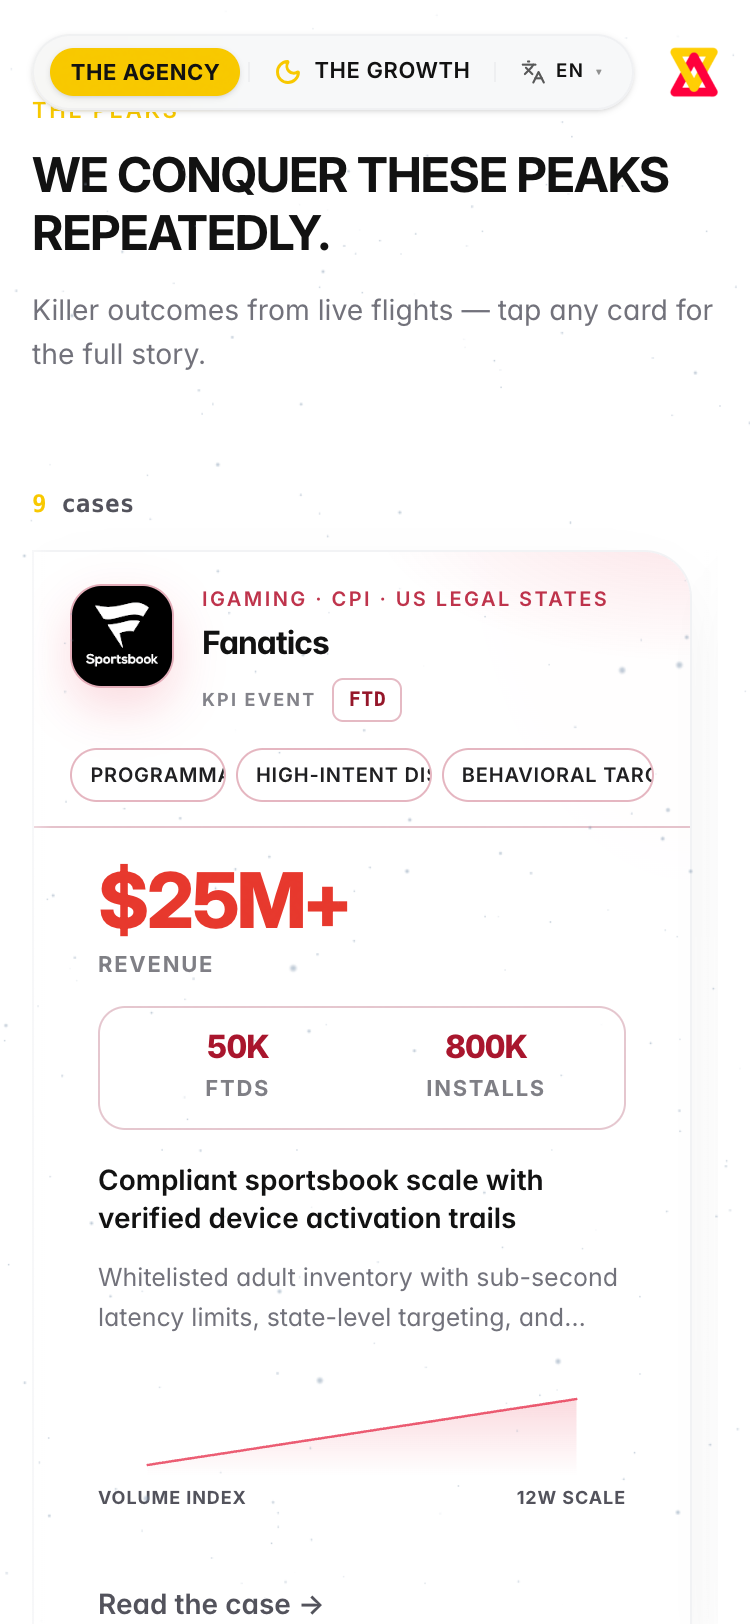
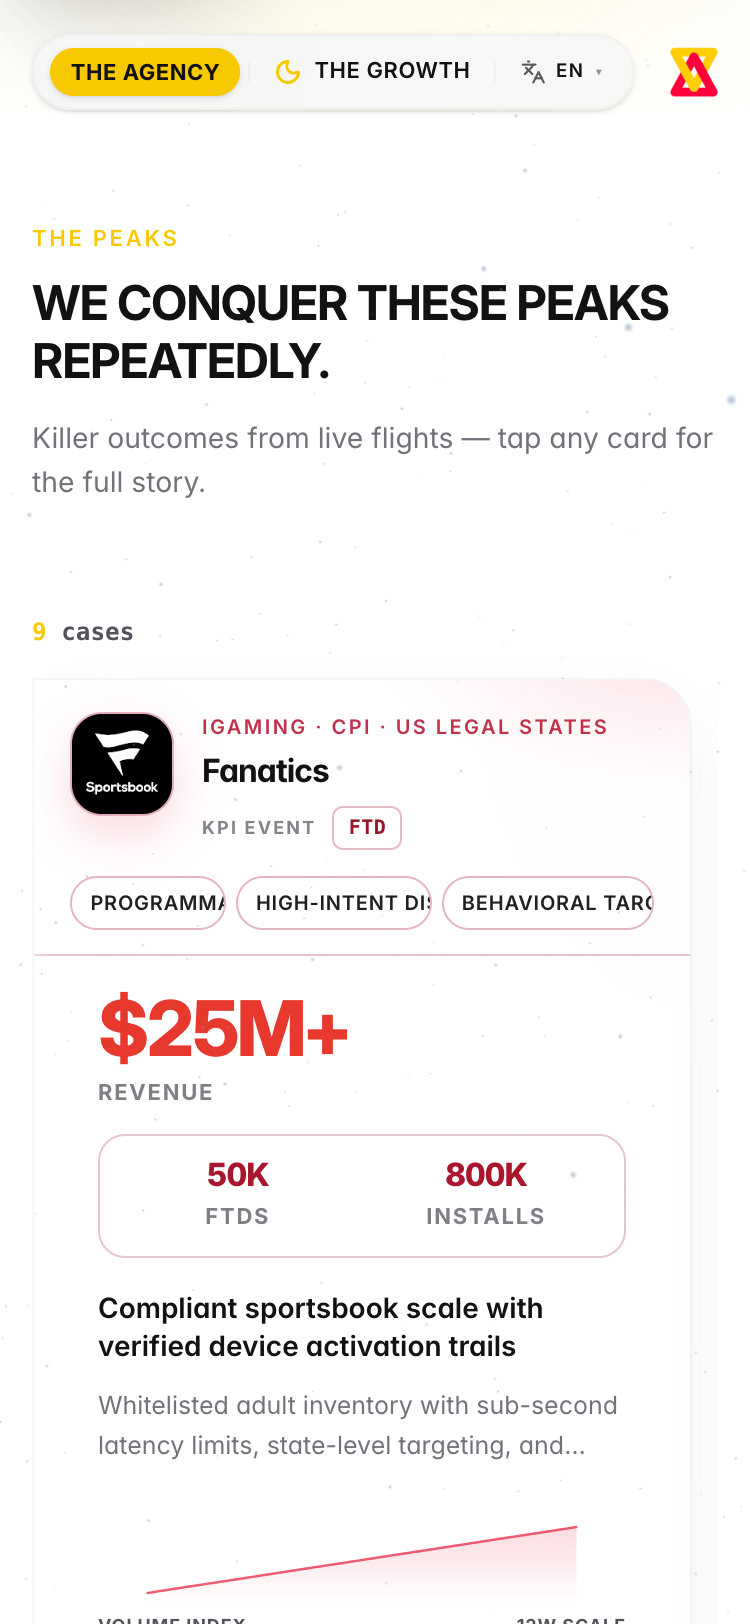
fix(charts): enable animations on mobile for light theme charts, move scroll refs to sections to extend animation runway, fix fraud chart ghost coordinates and text alignment for mobile

diff --git a/src/components/FraudScrollChart.tsx b/src/components/FraudScrollChart.tsx
@@ -22,10 +22,10 @@ const segments = [
 const radii = [168, 138, 108, 78];
 
 const fraudGhostLayout = [
-  { left: "48%", originY: 79, drift: 16, duration: 7.2, delay: 0 },
-  { left: "63%", originY: 85, drift: -12, duration: 7.8, delay: 1.1 },
-  { left: "78%", originY: 75, drift: 14, duration: 8.1, delay: 2.0 },
-  { left: "92%", originY: 81, drift: -10, duration: 6.6, delay: 2.8 },
+  { left: "48%", mobileLeft: "30%", originY: 79, drift: 16, duration: 7.2, delay: 0 },
+  { left: "63%", mobileLeft: "48%", originY: 85, drift: -12, duration: 7.8, delay: 1.1 },
+  { left: "78%", mobileLeft: "66%", originY: 75, drift: 14, duration: 8.1, delay: 2.0 },
+  { left: "92%", mobileLeft: "84%", originY: 81, drift: -10, duration: 6.6, delay: 2.8 },
 ] as const;
 
 function polar(cx: number, cy: number, r: number, angleDeg: number) {
@@ -55,6 +55,17 @@ function FraudGhost({
   const layout = fraudGhostLayout[index]!;
   const containerRef = useRef<HTMLSpanElement>(null);
 
+  const [isMobile, setIsMobile] = useState(false);
+  useEffect(() => {
+    const mq = window.matchMedia("(max-width: 767px)");
+    setIsMobile(mq.matches);
+    const handler = (e: MediaQueryListEvent) => setIsMobile(e.matches);
+    mq.addEventListener("change", handler);
+    return () => mq.removeEventListener("change", handler);
+  }, []);
+
+  const finalLeft = isMobile ? layout.mobileLeft : layout.left;
+
   // Zero-cost text update matching ModeChart
   useEffect(() => {
     const updateDOM = (v: number) => {
@@ -79,7 +90,7 @@ function FraudGhost({
 
   return (
     <GhostBubbleMotion
-      left={layout.left}
+      left={finalLeft}
       originY={layout.originY}
       drift={layout.drift}
       duration={layout.duration}
@@ -137,7 +148,7 @@ export function FraudScrollChart({ progress }: { progress: MotionValue<number> }
 
   useEffect(() => {
     const mq = window.matchMedia("(min-width: 768px)");
-    const sync = () => setEnabled(mq.matches && !reduced);
+    const sync = () => setEnabled(!reduced);
     sync();
     mq.addEventListener("change", sync);
     return () => mq.removeEventListener("change", sync);
@@ -167,7 +178,7 @@ export function FraudScrollChart({ progress }: { progress: MotionValue<number> }
       
       {/* Live Date Anchor */}
       <motion.div 
-        className="absolute top-10 right-[42%] flex flex-col items-end gap-1.5 text-right z-10"
+        className="absolute top-10 right-[10%] md:right-[42%] flex flex-col items-end gap-1.5 text-right z-10"
         style={{ opacity: dateOpacity }}
       >
         <span className="font-sans font-medium text-[0.65rem] tracking-widest text-accent-secondary uppercase flex items-center gap-2">

diff --git a/src/components/PromiseSection.tsx b/src/components/PromiseSection.tsx
@@ -25,7 +25,7 @@ function PromiseClean() {
   });
 
   return (
-    <section id="promise" className="section-band section-band--quiet">
+    <section ref={ref} id="promise" className="section-band section-band--quiet min-h-screen">
       <ModeContentTransition mode={mode} className="section-inner">
         <SectionHeader label={content.label} title={content.title} animated={false} />
         <div className="section-stack flex max-w-3xl flex-col gap-5">
@@ -36,7 +36,7 @@ function PromiseClean() {
           <p className="section-description max-w-2xl mt-4 mb-6">{formatEventNames(content.description)}</p>
         </div>
         
-        <div ref={ref} className="relative w-full aspect-[4/3] sm:aspect-[21/9] mt-8 pointer-events-none flex items-center justify-center">
+        <div className="relative w-full aspect-[4/3] sm:aspect-[21/9] mt-8 pointer-events-none flex items-center justify-center">
            {isParityDark ? <ParityWaterChart progress={scrollYProgress} /> : <CommitmentChart progress={scrollYProgress} />}
         </div>
       </ModeContentTransition>

diff --git a/src/components/Audience.tsx b/src/components/Audience.tsx
@@ -25,7 +25,7 @@ function AudienceStatic() {
   });
 
   return (
-    <section id="audience" className="section-band section-band--quiet">
+    <section ref={ref} id="audience" className="section-band section-band--quiet min-h-screen">
       <ModeContentTransition mode={mode} className="section-inner">
         <SectionHeader label={content.label} title={content.title} animated={false} />
         <div className="section-stack flex max-w-3xl flex-col gap-5">
@@ -36,7 +36,7 @@ function AudienceStatic() {
           <p className="section-description max-w-2xl whitespace-pre-wrap">{formatEventNames(content.description)}</p>
         </div>
 
-        <div ref={ref} className="relative w-full aspect-[4/3] sm:aspect-[21/9] mt-8 pointer-events-none flex items-center justify-center">
+        <div className="relative w-full aspect-[4/3] sm:aspect-[21/9] mt-8 pointer-events-none flex items-center justify-center">
            {isFraud ? <FraudScrollChart progress={scrollYProgress} /> : <FoldChart progress={scrollYProgress} />}
         </div>
       </ModeContentTransition>

diff --git a/src/components/ModeChart.tsx b/src/components/ModeChart.tsx
@@ -155,7 +155,7 @@ export function FoldChart({ progress }: FoldChartProps) {
 
   useEffect(() => {
     const mq = window.matchMedia("(min-width: 768px)");
-    const sync = () => setEnabled(mq.matches && !reduced);
+    const sync = () => setEnabled(!reduced);
     sync();
     mq.addEventListener("change", sync);
     return () => mq.removeEventListener("change", sync);
